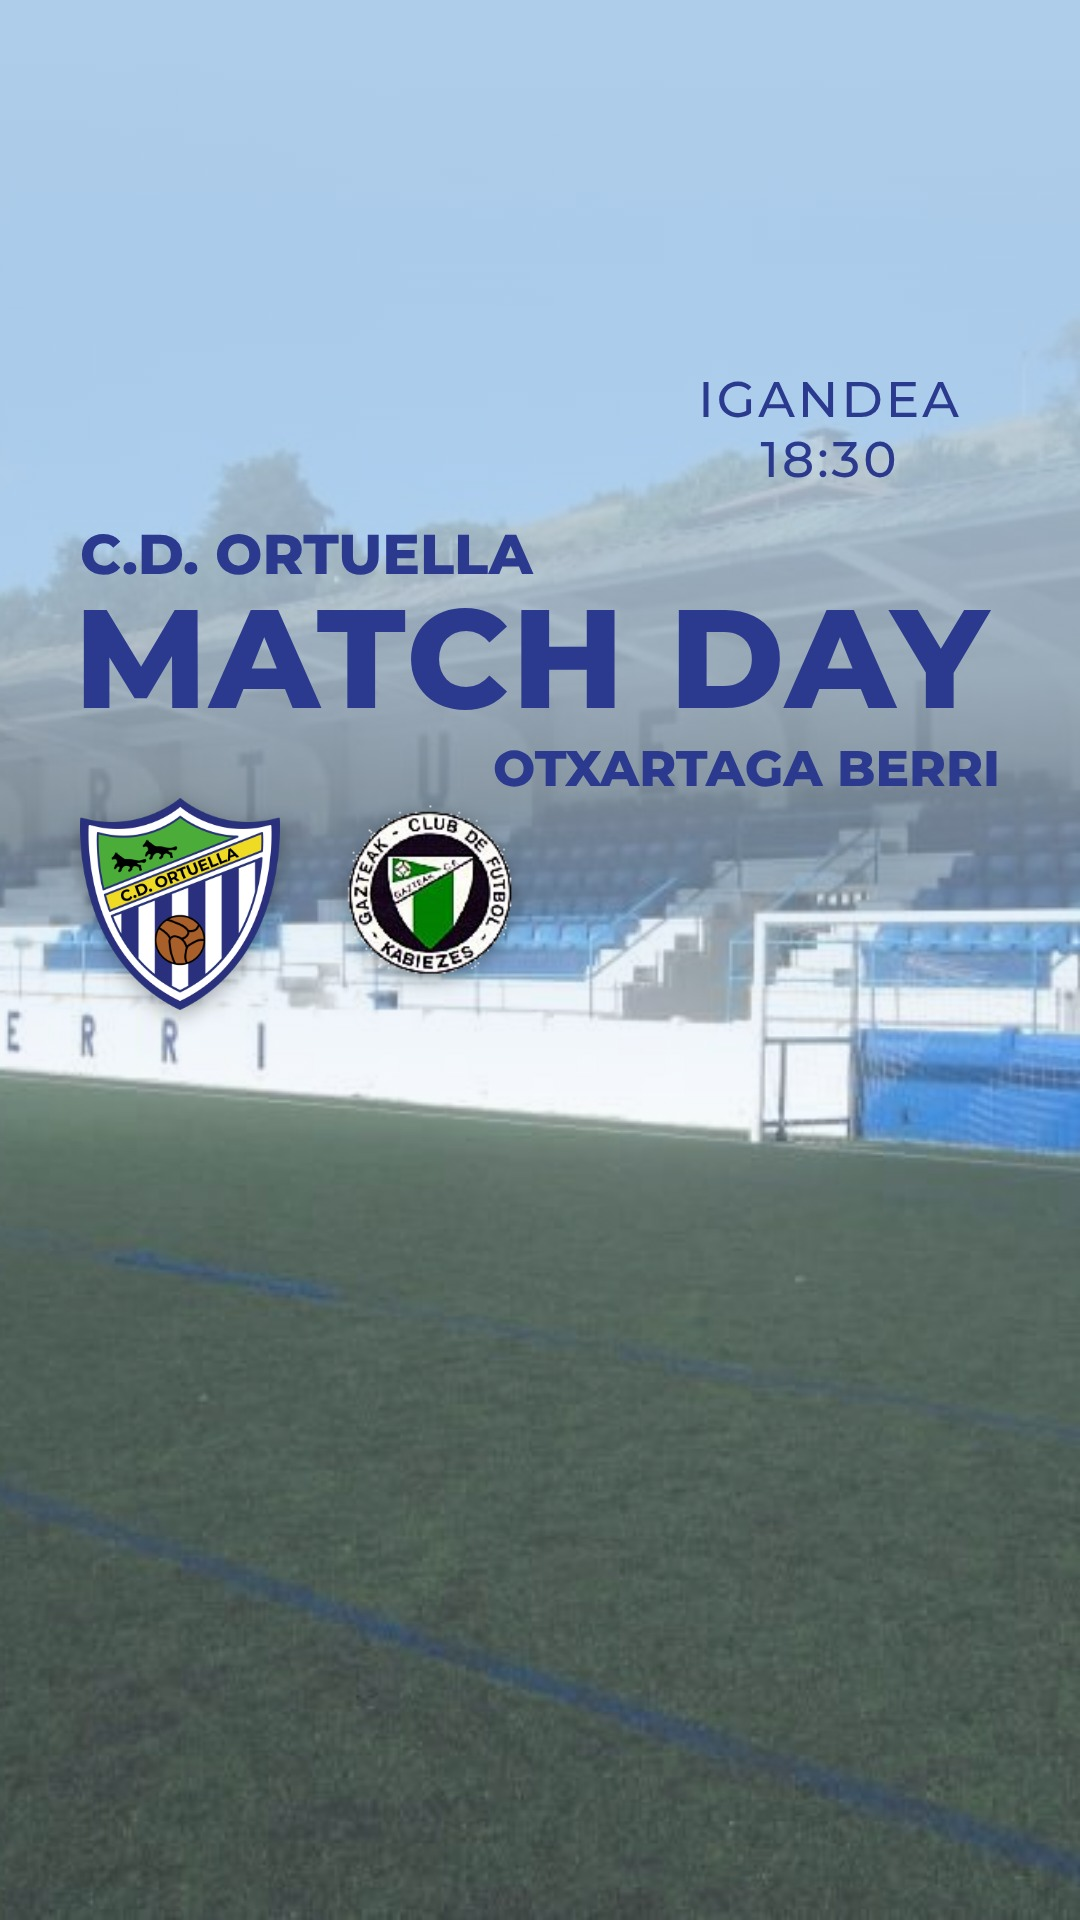
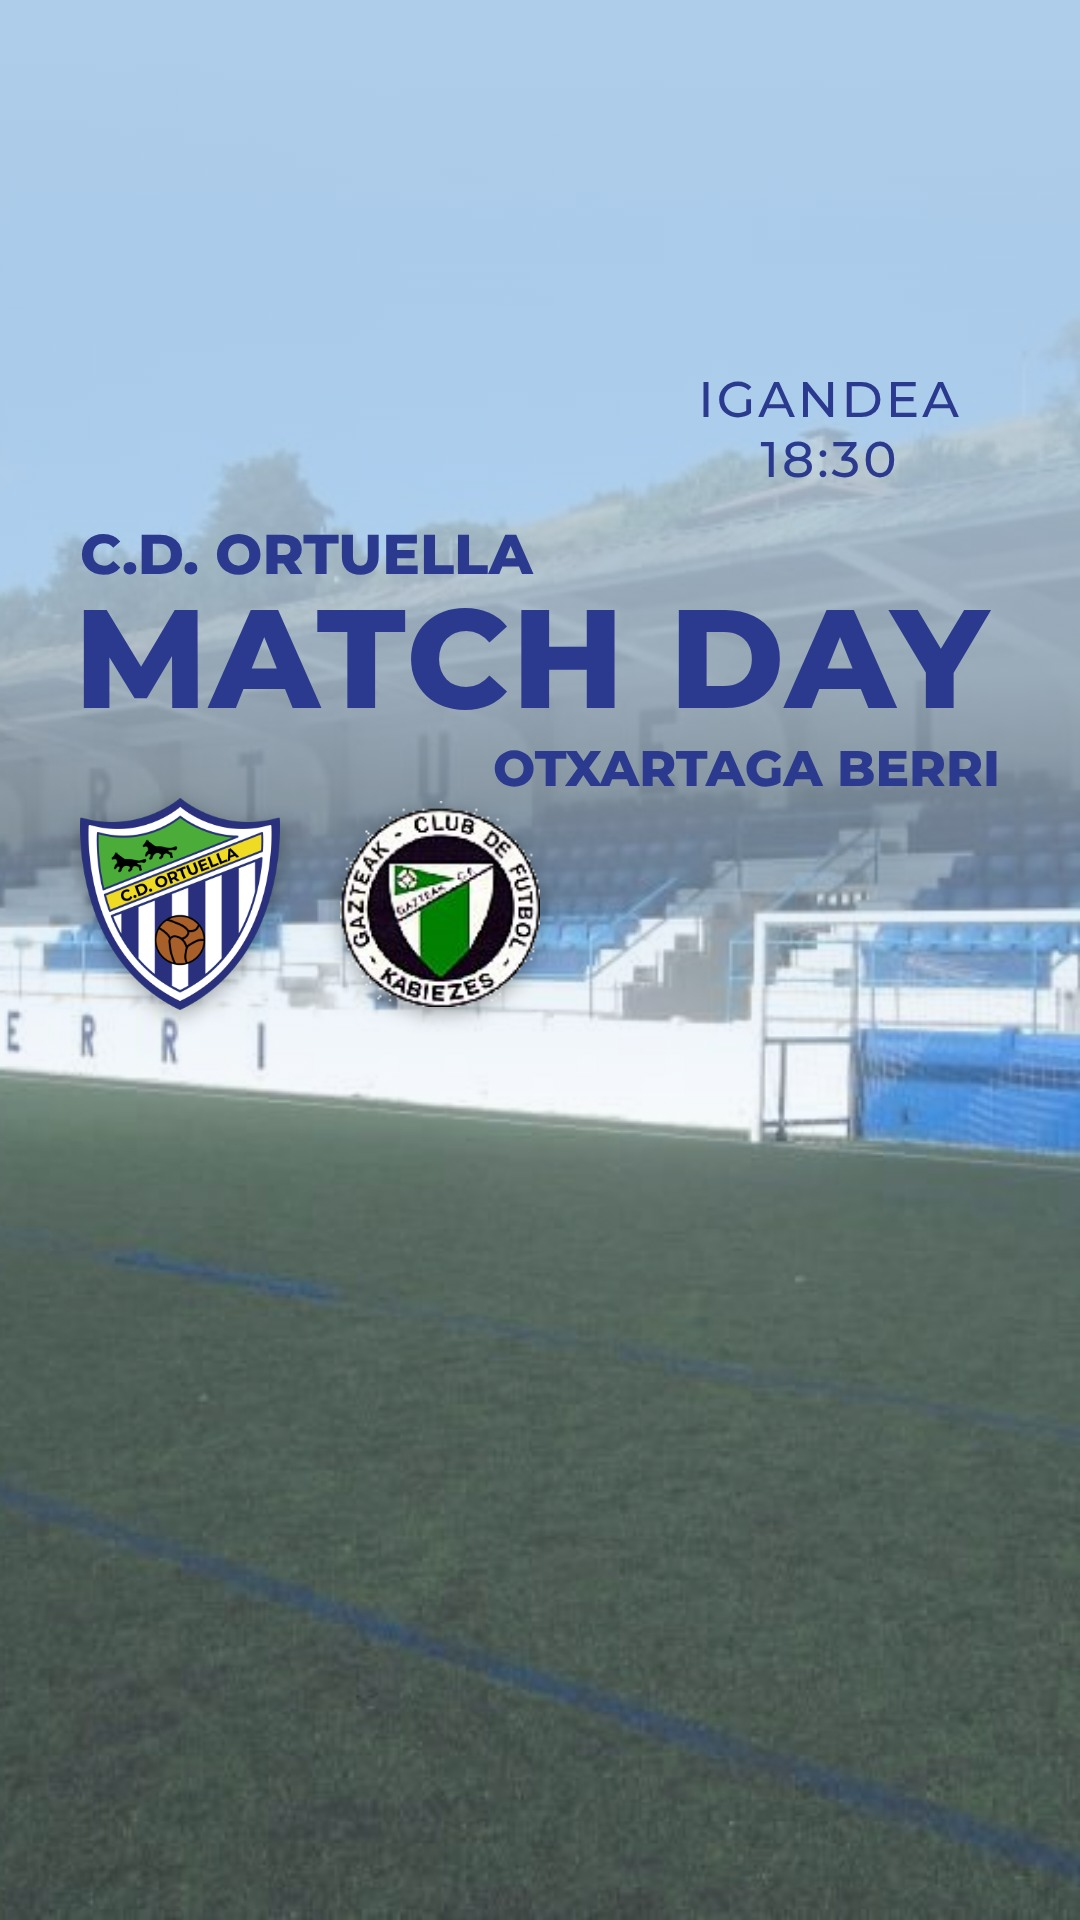
Nombres completos sin acortar, C.D. ORTUELLA B y ajustes tras revisar todas las variantes
- No se acortan nombres de rivales: los largos salen completos, más pequeños o en dos líneas.
- MATCH DAY del B: C.D. ORTUELLA B.
- Escudos sin márgenes vacíos, para que se vean igual de grandes.
- Texto de MATCH DAY legible también sobre fotos claras.

Claude-Session: https://claude.ai/code/session_01HGhHxNaaRD1kMFHjNqCnKz

Changed region(s): [[0.3056, 0.4062, 0.5194, 0.5312]]

diff --git a/redes/plantillas/estilos.css b/redes/plantillas/estilos.css
@@ -26,7 +26,7 @@ main { position: relative; height: 100%; display: flex; flex-direction: column; 
   justify-content: center; background: #f0efee; color: #011a36; font-weight: 800; font-size: 35px; letter-spacing: 1.5px; }
 .ordutegia .cat { left: 108px; width: 257px; }
 .ordutegia .dato { left: 383px; width: 589px; padding: 0 84px 0 24px; }
-.ordutegia .dato .texto { display: block; max-width: 100%; overflow: hidden; white-space: nowrap; text-align: center; }
+.ordutegia .dato .texto { display: block; width: 100%; height: 62px; line-height: 62px; overflow: hidden; white-space: nowrap; text-align: center; }
 .ordutegia .icono { position: absolute; right: 12px; width: 50px; height: 50px; }
 
 /* ------------------------------------------------ EMAITZAK (la cinta es la de la plantilla de Canva) */
@@ -34,7 +34,7 @@ main { position: relative; height: 100%; display: flex; flex-direction: column; 
 .partido { position: absolute; left: 0; width: 100%; height: 80px; }
 .partido { transform-origin: 540px 40px; }   /* el tamaño (scale) lo pone el generador según cuántos resultados haya */
 .partido img { position: absolute; left: 104px; top: -20px; }
-.equipo { position: absolute; top: 18px; width: 236px; overflow: hidden; white-space: nowrap; text-align: center;
+.equipo { position: absolute; top: 15px; height: 46px; line-height: 46px; width: 236px; overflow: hidden; white-space: nowrap; text-align: center;
   font-size: 33px; font-weight: 800; letter-spacing: .5px; color: #fff; }
 .equipo.local { left: 152px; }
 .equipo.visitante { left: 694px; }
@@ -60,7 +60,7 @@ main { position: relative; height: 100%; display: flex; flex-direction: column; 
 .v0 .vertical .club { font-size: 72px; font-weight: 700; letter-spacing: 3px; padding-left: 4px; }
 .historia.v0 .vertical { bottom: 260px; }
 .v0 .lado { position: absolute; right: 70px; top: 140px; width: 560px; text-align: center; color: #fff;
-  text-shadow: 0 2px 12px rgba(0, 0, 0, .45); }
+  text-shadow: 0 2px 4px rgba(0, 0, 0, .55), 0 0 22px rgba(0, 0, 0, .5); }   /* que se lea también sobre cielo claro */
 .historia.v0 .lado { top: 300px; }
 .v0 .lado .escudos { justify-content: center; margin-bottom: 60px; }
 .v0 .donde { overflow: hidden; white-space: nowrap; }

diff --git a/redes/generar_redes.py b/redes/generar_redes.py
@@ -124,6 +124,7 @@ def escudo_rival(nombre, datos):
         except Exception as e:
             print(f"  aviso: no se pudo bajar el escudo grande de {nombre} ({e})", file=sys.stderr)
     img = sin_fondo_blanco(img)
+    img = img.crop(img.getbbox() or (0, 0) + img.size)   # sin márgenes vacíos, para que todos los escudos se vean igual de grandes
     img.thumbnail((500, 500))
     os.makedirs(ESCUDOS_GRANDES, exist_ok=True)
     img.save(listo, optimize=True)
@@ -142,8 +143,17 @@ def escudo_ortuella():
 
 # Los textos que no caben (rivales con nombre largo) se hacen más pequeños hasta que caben
 AJUSTAR = """document.fonts.ready.then(() => document.querySelectorAll('.ajustar').forEach(el => {
-  let t = parseFloat(getComputedStyle(el).fontSize);
-  while (el.scrollWidth > el.clientWidth + 1 && t > 12) el.style.fontSize = (t -= 1) + 'px';
+  const pasa = () => el.scrollWidth > el.clientWidth + 1 || el.scrollHeight > el.clientHeight + 1;
+  const inicial = parseFloat(getComputedStyle(el).fontSize);
+  let t = inicial;
+  while (pasa() && t > inicial * 0.7) el.style.fontSize = (t -= 1) + 'px';
+  if (!pasa()) return;
+  // Si ni así cabe, en dos líneas (mejor que letra diminuta)
+  Object.assign(el.style, {whiteSpace: 'normal', lineHeight: '1.05', display: 'flex', alignItems: 'center',
+                           justifyContent: 'center', textAlign: 'center'});
+  t = inicial * 0.8;
+  el.style.fontSize = t + 'px';
+  while (pasa() && t > 12) el.style.fontSize = (t -= 1) + 'px';
 }));"""
 
 

diff --git a/redes/README.md b/redes/README.md
@@ -21,7 +21,8 @@ Si una pieza no tiene datos (no hay partidos o resultados esa semana), no aparec
 
 - **categorias**: qué filas salen y cómo se llaman (p. ej. "SENIOR" en horarios y "SENIOR A" en resultados).
   Alevín sale con "—" hasta que se añada a `EQUIPOS` en `actualizar_federacion.py` (cuando la Federación publique su liga).
-- **nombres_cortos**: cómo se escribe un rival ("Union Sport B" → "UNIÓN B"). Si no está, sale el nombre de la Federación.
+- **nombres_cortos**: solo para rivales que el club ya escribe de otra forma ("Union Sport B" → "UNIÓN B"). Los nombres no se acortan:
+  si no está aquí, sale el nombre completo de la Federación, más pequeño si es largo.
 - **campos_cortos**: igual para los campos de MATCH DAY.
 - **fondos**: los fondos que van rotando cada semana; solo se usan los de estas listas, nunca otras fotos.
   - `tablas` (ORDUTEGIA y EMAITZAK): `"canva"` es el fondo de la plantilla de Canva; cualquier otra foto sale
